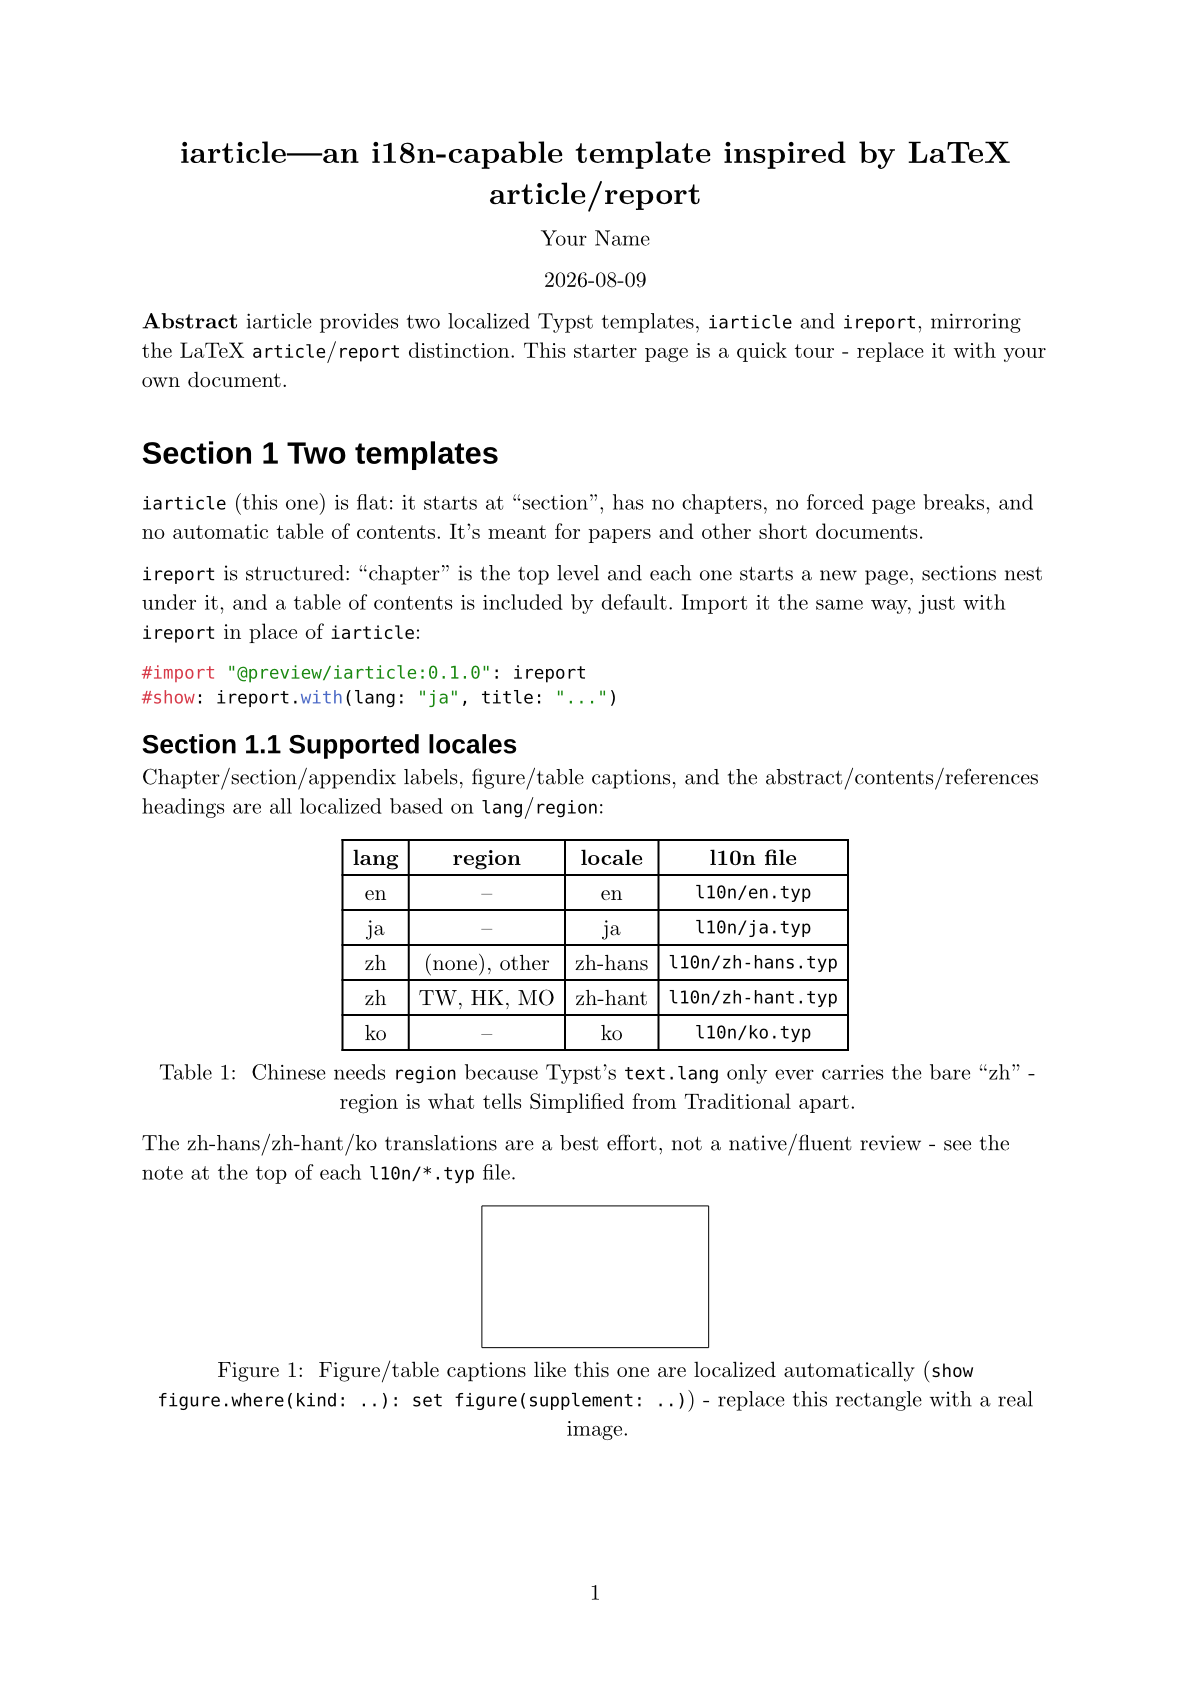
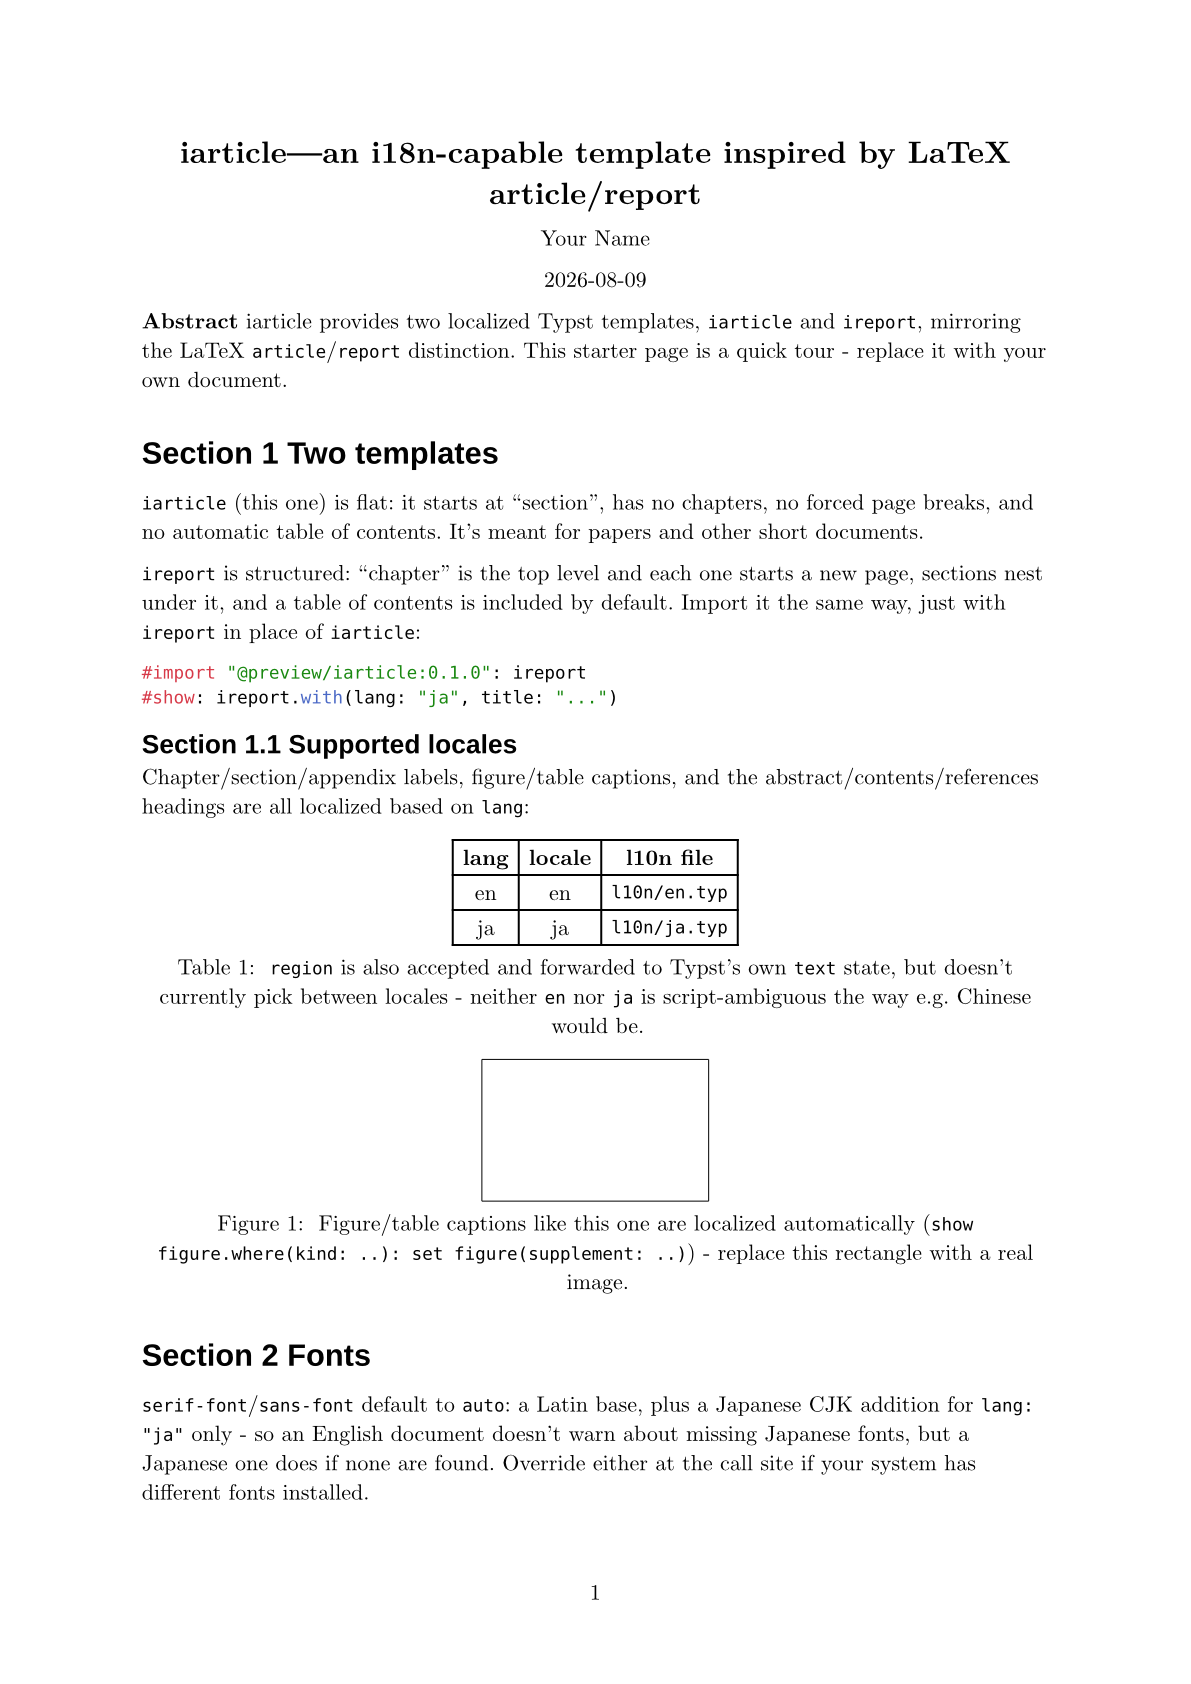
unverified localizations are removed.

diff --git a/README.md b/README.md
@@ -12,27 +12,20 @@ This package provides two templates, mirroring the LaTeX `article` vs.
 
 Both localize their own generated text (chapter/section/appendix
 labels, figure/table captions, "Contents", "References", "Abstract")
-based on `lang`/`region` - see `l10n/`. Supported locales:
+based on `lang` - see `l10n/`. Supported locales:
 
-| `lang` | `region`         | locale    | l10n file          |
-| ------ | ---------------- | --------- | ------------------- |
-| `en`   | -                | en        | `l10n/en.typ`        |
-| `ja`   | -                | ja        | `l10n/ja.typ`        |
-| `zh`   | (none), other    | zh-hans   | `l10n/zh-hans.typ`   |
-| `zh`   | `TW`, `HK`, `MO`  | zh-hant   | `l10n/zh-hant.typ`   |
-| `ko`   | -                | ko        | `l10n/ko.typ`        |
+| `lang` | locale | l10n file      |
+| ------ | ------ | -------------- |
+| `en`   | en     | `l10n/en.typ`  |
+| `ja`   | ja     | `l10n/ja.typ`  |
 
-Chinese needs `region` because Typst's `text.lang` only ever carries
-the bare `"zh"` - it has no separate script field - so region is the
-only signal available to tell Simplified from Traditional apart.
-
-**The zh-hans/zh-hant/ko translations are a best effort, not a
-native/fluent review** - neither this template's author nor the person
-who wrote them reads these languages. They're standard,
-low-ambiguity technical-document terms, not guesses, but get them
-checked by a native/fluent speaker before relying on them for
-anything real. Corrections are isolated one-line fixes in the
-relevant `l10n/*.typ` file.
+`region` is also accepted and forwarded to Typst's own `text` state
+(it affects Typst's built-in, language-level behavior independent of
+this package's string tables); it doesn't currently pick between
+locales, since neither `en` nor `ja` is script-ambiguous the way e.g.
+Chinese would be. A future locale that needs region to disambiguate
+(Simplified vs. Traditional Chinese, say) can add that without
+changing this API - see `_locale-for` in `lib.typ`.
 
 ## To use:
 
@@ -69,23 +62,20 @@ For a shorter, section-only document, use `iarticle` instead:
 
 See `samples/` for fuller examples, including figures, tables,
 citations, and `appendix(..)` - `report-{en,ja}.typ` for `ireport`,
-`article-{en,ja,zh-hans,zh-hant,ko}.typ` for `iarticle`.
+`article-{en,ja}.typ` for `iarticle`.
 
 ## Fonts
 
 `iarticle`/`ireport` take `serif-font`/`sans-font` parameters (font
 fallback lists, resolved per character, so mixed Latin/CJK text keeps
 working). Left as `auto` (the default), the stack used depends on the
-resolved locale (the same `lang`/`region` resolution as the string
-table above): a Latin-only base for locales that don't need more, with
-a locale-specific CJK addition for ja/zh-hans/zh-hant/ko - a different
-one per script, since e.g. reusing a Japanese font for Chinese text can
-render subtly wrong-shaped strokes ("Han unification") even though
-nothing errors. This is also why an English document doesn't warn
-about missing CJK fonts, but a Japanese/Chinese/Korean one does if none
-are found. Override `serif-font`/`sans-font` at the call site rather
-than editing this template; to extend the shipped defaults instead of
-replacing them outright:
+resolved locale (the same `lang` resolution as the string table above):
+a Latin-only base for `en`, plus a Japanese CJK addition for `ja`. This
+is also why an English document doesn't warn about missing CJK fonts,
+but a Japanese one does if none are found. Override
+`serif-font`/`sans-font` at the call site rather than editing this
+template; to extend the shipped defaults instead of replacing them
+outright:
 
 ```typst
 #import "@preview/iarticle:0.1.0": iarticle
